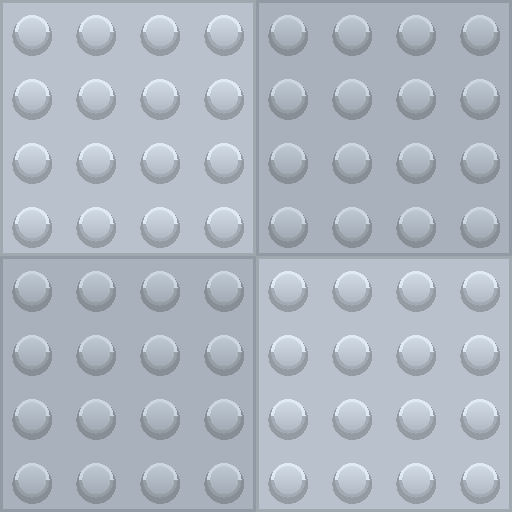
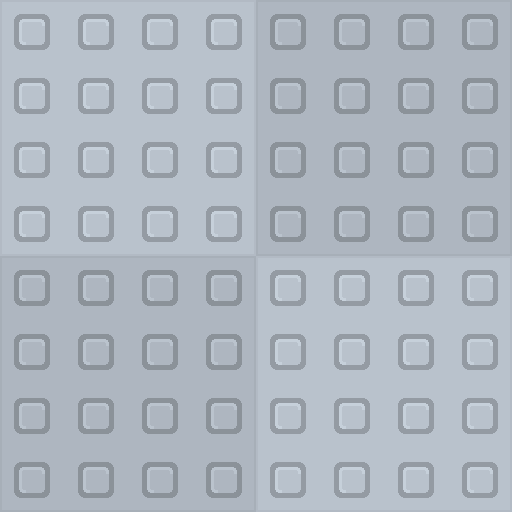
colores y studs como la referencia
Studs cuadrados con damero suave, GameConfig.Paleta con colores medidos,
studs en el lobby y sin brillo de plástico.

diff --git a/forja-rapida/arte/scripts/texturas_studs.py b/forja-rapida/arte/scripts/texturas_studs.py
@@ -1,0 +1,79 @@
+"""Texturas de studs como las referencias (pedido D3, 25/10/2026).
+
+En estilo-1, lobby-1 y lobby-2 cada stud es un cuadradito con el borde apenas más oscuro (no un
+círculo), y el piso tiene un damero muy suave de baldosas de 4 x 4 studs. Reemplaza a las
+texturas de piso de decoracion.py (texturas_piso), que tenían studs redondos y un damero fuerte.
+
+Sale a arte/texturas/:
+  Piso_<Zona>_Damero.png  512 px = 8 x 8 studs (las dos baldosas cruzadas), StudsPerTile 8
+  Studs_Liso.png          512 px = 4 x 4 studs blanco (toma el color de la parte), StudsPerTile 4
+
+Uso (no necesita Blender):  python forja-rapida/arte/scripts/texturas_studs.py
+"""
+
+from pathlib import Path
+
+import numpy as np
+from PIL import Image
+
+SALIDA = Path(__file__).resolve().parents[1] / "texturas"
+
+# zona: color de la baldosa A (medido en las referencias y corregido por la luz "Referencia",
+# que aclara y satura un poco: ver GameConfig.Paleta). La baldosa B es DAMERO veces más oscura.
+PISOS = {
+    "Pradera": "#72B530",
+    "Dunas": "#EDAE55",
+    "Glaciar": "#E8F0FA",
+    "Volcan": "#5A4E4E",
+    "Abismo": "#4B3A78",
+    "Camino": "#B9C2CC",
+}
+LISO = "#E6E6E6"
+DAMERO = 0.94  # la referencia casi no se nota: 6 % más oscura
+
+LADO_STUD = 0.56  # lado del cuadradito, en fracción de la celda del stud
+ANCHO_BORDE = 0.075  # grosor del borde oscuro
+OSCURO = 0.80  # cuánto oscurece el borde
+CLARO = 1.07  # filo claro arriba e izquierda, adentro del borde (da un poco de relieve)
+JUNTA = 0.96  # línea entre baldosas, casi invisible
+
+
+def color(hexa):
+    return np.array([int(hexa[i : i + 2], 16) / 255 for i in (1, 3, 5)], dtype=np.float32)
+
+
+def baldosa(base, px=512, studs=4):
+    """Baldosa de studs x studs: fondo liso y un cuadradito con borde oscuro por stud."""
+    celda = px / studs
+    v, u = np.mgrid[0:px, 0:px].astype(np.float32) + 0.5
+    cu, cv = (u % celda) / celda - 0.5, (v % celda) / celda - 0.5
+    # distancia "cuadrada" con las esquinas apenas redondeadas
+    d = (np.abs(cu) ** 6 + np.abs(cv) ** 6) ** (1 / 6)
+    afuera = LADO_STUD / 2
+    adentro = afuera - ANCHO_BORDE
+    luz = np.ones((px, px), dtype=np.float32)
+    borde = (d <= afuera) & (d > adentro)
+    luz[borde] = OSCURO
+    filo = (d <= adentro) & (d > adentro - ANCHO_BORDE * 0.6) & ((cu < -0.1) | (cv < -0.1))
+    luz[filo] = CLARO
+    junta = 0.008 * px
+    luz[(u < junta) | (u > px - junta) | (v < junta) | (v > px - junta)] *= JUNTA
+    return np.clip(base * luz[..., None], 0, 1)
+
+
+def guardar(nombre, img):
+    Image.fromarray((img * 255 + 0.5).astype(np.uint8), "RGB").save(SALIDA / f"{nombre}.png")
+
+
+def main():
+    for zona, hexa in PISOS.items():
+        a = baldosa(color(hexa), 256)
+        b = baldosa(color(hexa) * DAMERO, 256)
+        damero = np.concatenate([np.concatenate([a, b], 1), np.concatenate([b, a], 1)], 0)
+        guardar(f"Piso_{zona}_Damero", damero)
+    guardar("Studs_Liso", baldosa(color(LISO)))
+    print("listo:", ", ".join(f"Piso_{z}_Damero" for z in PISOS), "y Studs_Liso")
+
+
+if __name__ == "__main__":
+    main()

diff --git a/ideas/forja-rapida.md b/ideas/forja-rapida.md
@@ -436,6 +436,7 @@ De las capturas se toma el estilo, no el contenido: cielo celeste brillante, pis
 
 Guía de estilo (18/10/2026, elegida con las referencias de `forja-rapida/arte/referencias/`):
 - **Luz Referencia** (`GameConfig.Luz`, desde 25/10/2026, pedido D2): copiada de estilo-1, mapa-1, mapa-3 y lobby-2. Cielo de dibujo de Roblox sin sol, nubes 3D de algodón (Clouds), sombras claras (Ambient #9A9A9A), sin brillo de plástico, saturación 0,15 y bruma celeste (Haze 2) que aclara el fondo. Dos arcoíris al fondo de cada zona, uno por lado. La luz de antes queda guardada como estilo "Juani" (con su "Realistic Sky").
+- **Colores y studs (D3, 25/10/2026)**: studs cuadrados con borde fino oscuro y damero suave de 4 x 4 (`arte/scripts/texturas_studs.py`, IDs en `GameConfig.Pisos.Texturas`). Colores medidos en las referencias en `GameConfig.Paleta` (Ref = medido; Deco/Copa/Tronco/ParedLobby = lo que se usa). Lobby con studs salvo metal, fuego y carteles. Paredes del lobby durazno. Pendiente de decidir: tamaño de las geodas (`EscalaGeoda`), puesto y paredes del Glaciar (hielo o terracota).
 - **Todo con studs** (MaterialVariant `Studs_Liso`): geodas (roca y nido) y decoración, menos lo que brilla o es transparente.
 - **Geodas 1,5 veces más grandes** (`GameConfig.Modelos.EscalaGeoda`).
 - **Decoración a los costados de cada zona** (árboles, cactus, pinos, columnas: `GameConfig.Modelos.DecoExtra`), con el centro libre para las geodas.

diff --git a/forja-rapida/PENDIENTES.md b/forja-rapida/PENDIENTES.md
@@ -16,7 +16,7 @@ Se hacen de a uno, en orden. Cuando un pedido dice "Prompt: X de PROMPTS-SECTORE
   - Cómo lo pruebo: Play, lado a lado con estilo-1, mapa-3 y lobby-2 hasta 3 veces; eventos que tiñen la luz siguen andando.
   - Prompt: D2 de PROMPTS-SECTORES.md
 
-- [ ] **D3 · Colores, studs y materiales de todo el mapa**
+- [x] ~~**D3 · Colores, studs y materiales de todo el mapa**~~ hecho 25/10 (tamaños y paredes del Glaciar quedan para después; falta emulador de celular)
   - Qué se hace: colores medidos de las referencias en `GameConfig.Paleta`, studs del tamaño y contraste de la referencia en todo lo opaco, sin brillos de plástico. Lista de proporciones para que la apruebes.
   - Qué hacés vos: aprobar la lista de tamaños antes de que los cambie.
   - Cómo lo pruebo: lado a lado de Pradera, Dunas, Glaciar y lobby.
@@ -111,3 +111,8 @@ Se hacen de a uno, en orden. Cuando un pedido dice "Prompt: X de PROMPTS-SECTORE
   - Qué hacés vos: nada.
   - Cómo lo pruebo: todo junto con 2 o 3 jugadores y emulador de celular; FPS, consola sin rojo, copia .rbxl.
   - Prompt: G4 de PROMPTS-SECTORES.md
+
+- [ ] **Tamaños como la referencia** (sale de D3)
+  - Qué se hace: geodas más chicas (`EscalaGeoda` 1,5 → 1 o 0,8), puesto de venta un 30 % más chico y decidir si las paredes del Glaciar van terracota como mapa-4.
+  - Qué hacés vos: elegir los números.
+  - Cómo lo pruebo: lado a lado con estilo-1, estilo-4 y lobby-1.
